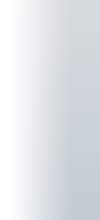
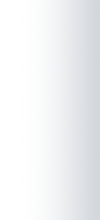
IE6 透明

Changed region(s): [[0.36, 0.3, 0.84, 1.0], [0.45, 0.3818, 0.48, 0.4091]]

diff --git a/wp-content/themes/hcpc/style.css b/wp-content/themes/hcpc/style.css
@@ -76,7 +76,7 @@ body {font:400 12px/1.5 "Microsoft Yahei",Arial,"宋体";color:#666;background:#
 		#scroll-btn {display:none;}
 			#scroll-btn a {display:block;position:absolute;top:90px;left:15px;padding-top:55px;width:21px;height:0;background:url(images/bg_others.png) no-repeat 0 -295px;z-index:9;overflow:hidden;}
 			#scroll-btn #scroll-next {left:auto;right:15px;background-position:-21px -295px;}
-		#sort .sort-ft {position:absolute;top:10px;right:0;width:100px;height:220px;background:url(images/sort_cover.png) no-repeat;_filter:progid:DXImageTransform.Microsoft.AlphaImageLoader(src='sort_cover.png',sizingMethod='scale');overflow:hidden;pointer-events:none;}
+		#sort .sort-ft {position:absolute;top:10px;right:0;width:100px;height:220px;background:url(images/sort_cover.png) no-repeat;_background:none;overflow:hidden;pointer-events:none;}
 		.scroll-hover #scroll-btn {display:block;}
 
 	#intro {width:980px;}

diff --git a/wp-content/themes/hcpc/home.php b/wp-content/themes/hcpc/home.php
@@ -37,7 +37,11 @@
 					<a href="javascript:;" id="scroll-prev">上一个</a>
 					<a href="javascript:;" id="scroll-next">下一个</a>
 				</p>
-				<p class="sort-ft"></p>
+				<p class="sort-ft">
+					<!--[if IE 6]>
+					<embed src="<?php bloginfo( 'template_url' ); ?>/images/sort_cover.swf" quality="high" pluginspage="http://www.macromedia.com/go/getflashplayer" type="application/x-shockwave-flash" wmode="transparent" width="100" height="220"></embed>
+					<![endif]-->
+				</p>
 			</div>			
 		</div>
 
